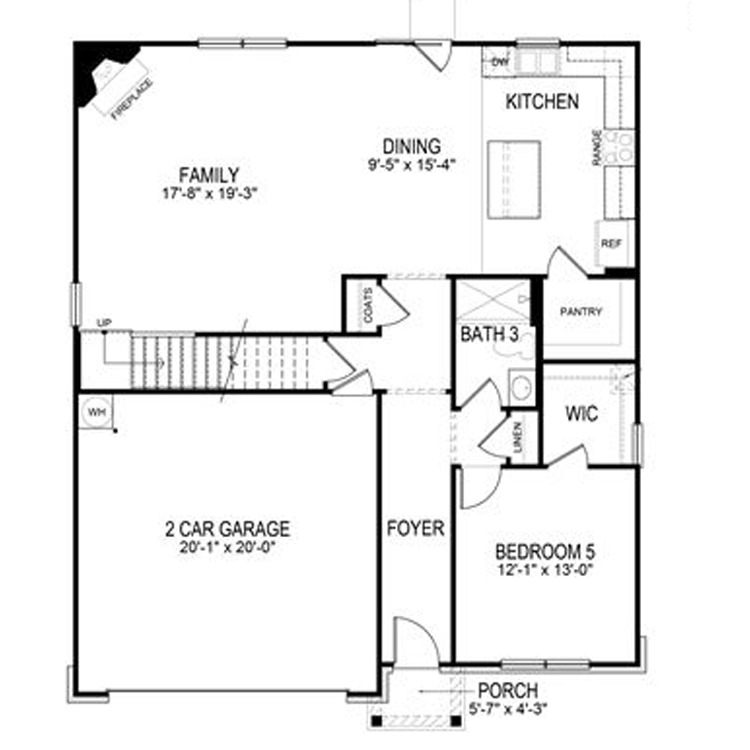
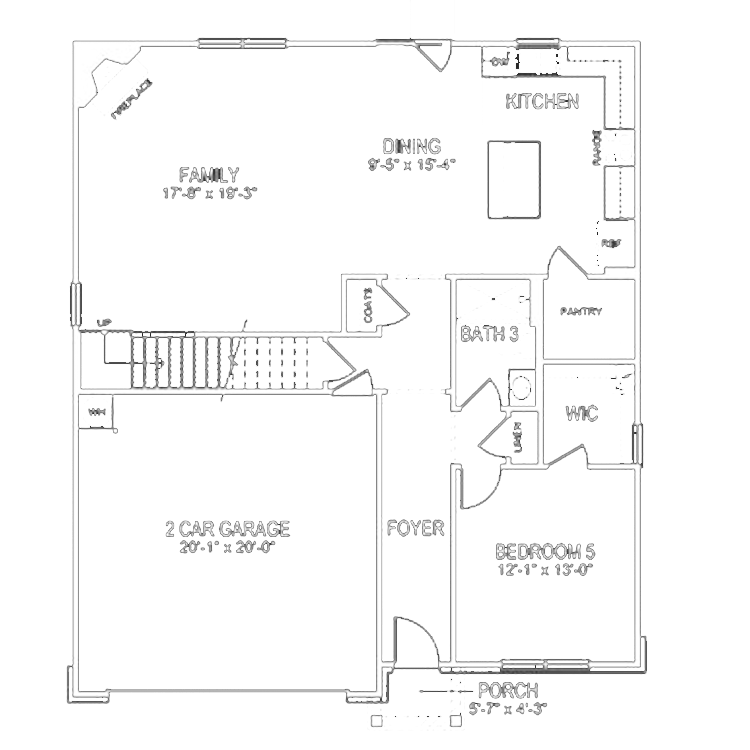
Updated floorplans

diff --git a/gallery.html b/gallery.html
@@ -641,13 +641,13 @@
                             </ul>
                             <ul class="d-tab-content">
                                 <li>
-                                    <img src="images/misc/floorplan1.png" class="w-100 " alt="">
+                                    <img src="images/misc/floorplan1_black.png" class="w-100 " alt="">
                                 </li>
                                 <li>
-                                    <img src="images/misc/floorplan2.png" class="w-100 " alt="">
+                                    <img src="images/misc/floorplan2_black.png" class="w-100 " alt="">
                                 </li>
                                 <li>
-                                    <img src="images/misc/floorplanb.png" class="w-100 " alt="">
+                                    <img src="images/misc/floorplanb_black.png" class="w-100 " alt="">
                                 </li>
                             </ul>
                         </div>
